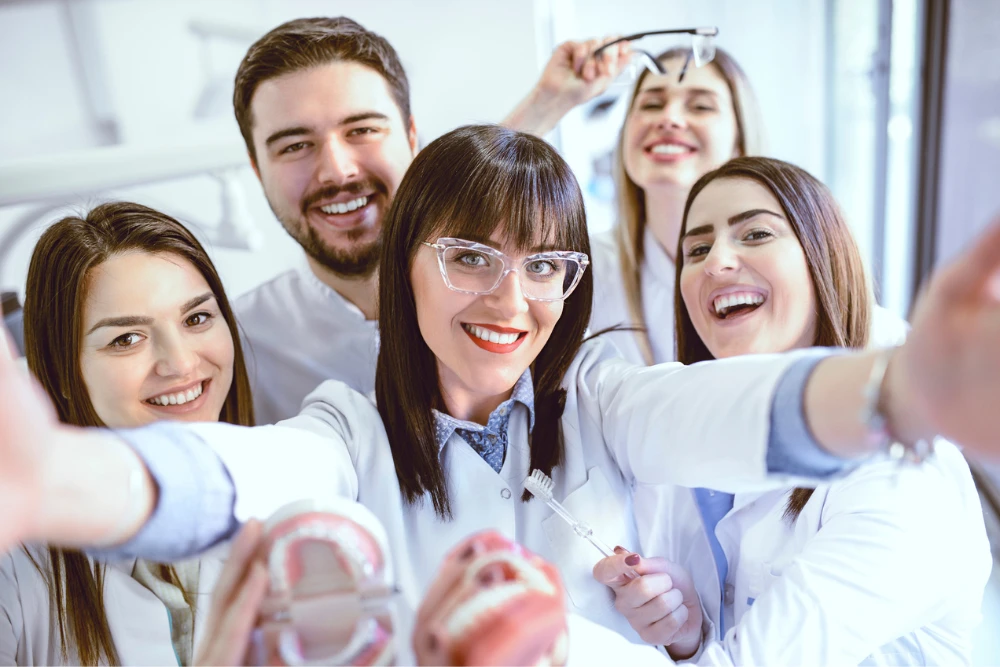
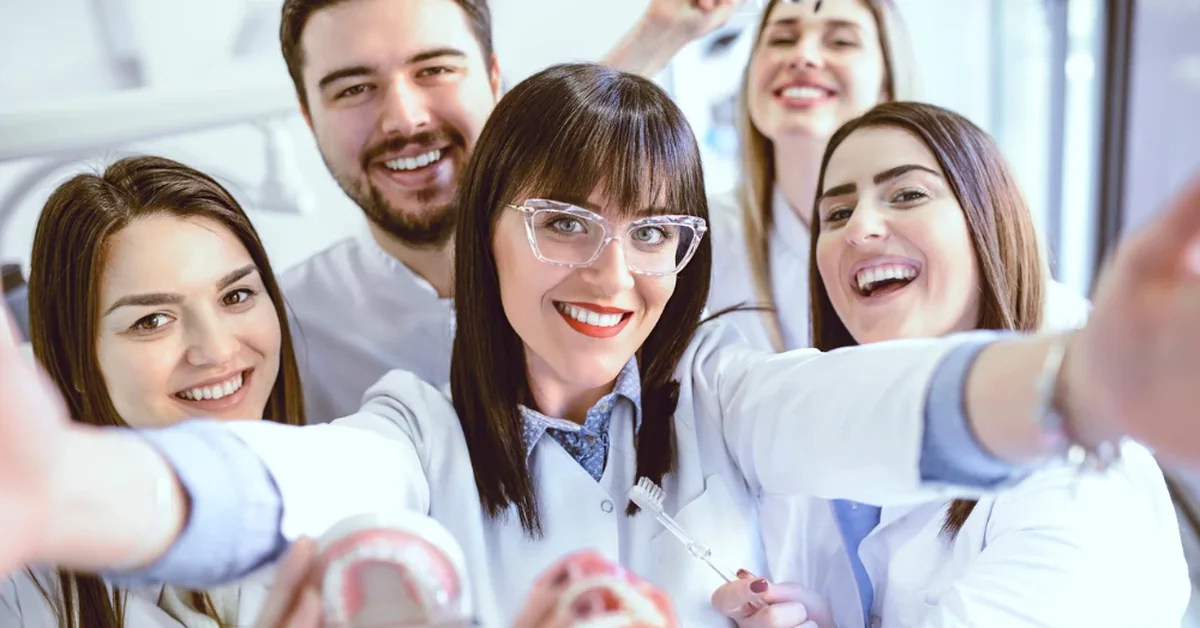
Revert Problems We Solve to tabs, crop 3rd blog image, cache-bust assets
- Revert the Problems We Solve accordion back to the original tabs layout
  (HTML, CSS, JS) on both desktop and mobile
- Crop the marketing blog image to 1200x628 to match the other two cards
- Add ?v=3 cache-buster to site.css/site.js so the hero alignment fix
  (already correct in code) is picked up over any stale cache

https://claude.ai/code/session_01NTQgUDCtFAgaS7qoez3vha

diff --git a/index.html b/index.html
@@ -16,7 +16,7 @@
   <link href="https://fonts.googleapis.com/css2?family=Poppins:wght@400;500;600;700&family=Inter:wght@400;500;600;700&display=swap" rel="stylesheet" />
 
   <link rel="icon" type="image/svg+xml" href="assets/img/favicon.svg" />
-  <link rel="stylesheet" href="assets/css/site.css" />
+  <link rel="stylesheet" href="assets/css/site.css?v=3" />
 </head>
 <body>
   <canvas id="bg-canvas" aria-hidden="true"></canvas>
@@ -116,89 +116,70 @@
           <p class="section-intro section-intro--light reveal">Start with the problem in front of you. We'll bring the right levers to bear, and skip the ones you don't need.</p>
         </div>
 
-        <div class="psolve__accordion reveal" id="psolveAccordion">
-          <div class="psolve__item is-active" data-i="0">
-            <button class="psolve__head" id="ptab-0" aria-expanded="true" aria-controls="ppanel-0">
-              <span class="psolve__tab-num">01</span>
-              <span class="psolve__head-label">Preparing for a sale</span>
-              <span class="psolve__chev" aria-hidden="true"></span>
+        <div class="psolve__layout reveal">
+          <div class="psolve__tabs" role="tablist" aria-label="Problems we solve">
+            <button class="psolve__tab is-active" role="tab" aria-selected="true" id="ptab-0" data-i="0">
+              <span class="psolve__tab-num">01</span> Preparing for a sale
             </button>
-            <div class="psolve__panel" id="ppanel-0" role="region" aria-labelledby="ptab-0">
-              <div class="psolve__panel-inner">
-                <p class="psolve__kicker">The situation</p>
-                <h3 class="psolve__headline">Maximize valuation and walk into diligence with nothing to hide.</h3>
-                <p class="psolve__copy">When you're preparing to sell, clean books and predictable performance are everything. We get the financials, margins, and growth story in shape so buyers compete for your practice.</p>
-                <ul class="psolve__list">
-                  <li>Financial clean-up &amp; revenue-cycle optimization</li>
-                  <li>Cost structure &amp; margin improvement</li>
-                  <li>Growth narrative &amp; diligence-ready documentation</li>
-                </ul>
-                <div class="psolve__outcome"><span class="psolve__outcome-num" data-count="100" data-suffix="%">0</span><span>of prep work aimed at a stronger multiple</span></div>
-              </div>
-            </div>
+            <button class="psolve__tab" role="tab" aria-selected="false" id="ptab-1" data-i="1">
+              <span class="psolve__tab-num">02</span> Growing an existing location
+            </button>
+            <button class="psolve__tab" role="tab" aria-selected="false" id="ptab-2" data-i="2">
+              <span class="psolve__tab-num">03</span> Launching a new location
+            </button>
+            <button class="psolve__tab" role="tab" aria-selected="false" id="ptab-3" data-i="3">
+              <span class="psolve__tab-num">04</span> Implementing best practices
+            </button>
           </div>
 
-          <div class="psolve__item" data-i="1">
-            <button class="psolve__head" id="ptab-1" aria-expanded="false" aria-controls="ppanel-1">
-              <span class="psolve__tab-num">02</span>
-              <span class="psolve__head-label">Growing an existing location</span>
-              <span class="psolve__chev" aria-hidden="true"></span>
-            </button>
-            <div class="psolve__panel" id="ppanel-1" role="region" aria-labelledby="ptab-1">
-              <div class="psolve__panel-inner">
-                <p class="psolve__kicker">The situation</p>
-                <h3 class="psolve__headline">Fill the schedule and lift revenue without adding overhead.</h3>
-                <p class="psolve__copy">You have capacity and a great team, and you need more of the right patients and a tighter path from interest to appointment. We focus on demand, conversion, and retention.</p>
-                <ul class="psolve__list">
-                  <li>Patient acquisition &amp; local marketing</li>
-                  <li>Conversion, scheduling &amp; retention</li>
-                  <li>Revenue-cycle tune-up to keep what you earn</li>
-                </ul>
-                <div class="psolve__outcome"><span class="psolve__outcome-num" data-count="35" data-suffix="%">0</span><span>increase in new patient calls</span></div>
-              </div>
-            </div>
-          </div>
+          <div class="psolve__stage">
+            <article class="psolve__panel is-active" role="tabpanel" aria-labelledby="ptab-0" data-i="0">
+              <p class="psolve__kicker">The situation</p>
+              <h3 class="psolve__headline">Maximize valuation and walk into diligence with nothing to hide.</h3>
+              <p class="psolve__copy">When you're preparing to sell, clean books and predictable performance are everything. We get the financials, margins, and growth story in shape so buyers compete for your practice.</p>
+              <ul class="psolve__list">
+                <li>Financial clean-up &amp; revenue-cycle optimization</li>
+                <li>Cost structure &amp; margin improvement</li>
+                <li>Growth narrative &amp; diligence-ready documentation</li>
+              </ul>
+              <div class="psolve__outcome"><span class="psolve__outcome-num" data-count="100" data-suffix="%">0</span><span>of prep work aimed at a stronger multiple</span></div>
+            </article>
 
-          <div class="psolve__item" data-i="2">
-            <button class="psolve__head" id="ptab-2" aria-expanded="false" aria-controls="ppanel-2">
-              <span class="psolve__tab-num">03</span>
-              <span class="psolve__head-label">Launching a new location</span>
-              <span class="psolve__chev" aria-hidden="true"></span>
-            </button>
-            <div class="psolve__panel" id="ppanel-2" role="region" aria-labelledby="ptab-2">
-              <div class="psolve__panel-inner">
-                <p class="psolve__kicker">The situation</p>
-                <h3 class="psolve__headline">Open strong with a proven playbook instead of guesswork.</h3>
-                <p class="psolve__copy">A new location is a bet. We de-risk it by validating the market, building demand before you open, and standing up operations so day one runs like day one hundred.</p>
-                <ul class="psolve__list">
-                  <li>Market &amp; site demand analysis</li>
-                  <li>Pre-launch marketing &amp; patient pipeline</li>
-                  <li>Operations, staffing &amp; systems setup</li>
-                </ul>
-                <div class="psolve__outcome"><span class="psolve__outcome-num" data-count="2" data-suffix="x" data-decimals="0">0</span><span>faster ramp to profitability</span></div>
-              </div>
-            </div>
-          </div>
+            <article class="psolve__panel" role="tabpanel" aria-labelledby="ptab-1" data-i="1" hidden>
+              <p class="psolve__kicker">The situation</p>
+              <h3 class="psolve__headline">Fill the schedule and lift revenue without adding overhead.</h3>
+              <p class="psolve__copy">You have capacity and a great team, and you need more of the right patients and a tighter path from interest to appointment. We focus on demand, conversion, and retention.</p>
+              <ul class="psolve__list">
+                <li>Patient acquisition &amp; local marketing</li>
+                <li>Conversion, scheduling &amp; retention</li>
+                <li>Revenue-cycle tune-up to keep what you earn</li>
+              </ul>
+              <div class="psolve__outcome"><span class="psolve__outcome-num" data-count="35" data-suffix="%">0</span><span>increase in new patient calls</span></div>
+            </article>
 
-          <div class="psolve__item" data-i="3">
-            <button class="psolve__head" id="ptab-3" aria-expanded="false" aria-controls="ppanel-3">
-              <span class="psolve__tab-num">04</span>
-              <span class="psolve__head-label">Implementing best practices</span>
-              <span class="psolve__chev" aria-hidden="true"></span>
-            </button>
-            <div class="psolve__panel" id="ppanel-3" role="region" aria-labelledby="ptab-3">
-              <div class="psolve__panel-inner">
-                <p class="psolve__kicker">The situation</p>
-                <h3 class="psolve__headline">Adopt what already works instead of starting from scratch.</h3>
-                <p class="psolve__copy">High-performing practices have already solved most of your problems. We bring those playbooks to your team and implement them, so improvement takes weeks, not years.</p>
-                <ul class="psolve__list">
-                  <li>Operational diagnostics &amp; benchmarking</li>
-                  <li>Best-practice playbooks for your specialty</li>
-                  <li>Team enablement &amp; change management</li>
-                </ul>
-                <div class="psolve__outcome"><span class="psolve__outcome-num" data-count="90" data-suffix="%">0</span><span>of best practices ready to implement on day one</span></div>
-              </div>
-            </div>
+            <article class="psolve__panel" role="tabpanel" aria-labelledby="ptab-2" data-i="2" hidden>
+              <p class="psolve__kicker">The situation</p>
+              <h3 class="psolve__headline">Open strong with a proven playbook instead of guesswork.</h3>
+              <p class="psolve__copy">A new location is a bet. We de-risk it by validating the market, building demand before you open, and standing up operations so day one runs like day one hundred.</p>
+              <ul class="psolve__list">
+                <li>Market &amp; site demand analysis</li>
+                <li>Pre-launch marketing &amp; patient pipeline</li>
+                <li>Operations, staffing &amp; systems setup</li>
+              </ul>
+              <div class="psolve__outcome"><span class="psolve__outcome-num" data-count="2" data-suffix="x" data-decimals="0">0</span><span>faster ramp to profitability</span></div>
+            </article>
+
+            <article class="psolve__panel" role="tabpanel" aria-labelledby="ptab-3" data-i="3" hidden>
+              <p class="psolve__kicker">The situation</p>
+              <h3 class="psolve__headline">Adopt what already works instead of starting from scratch.</h3>
+              <p class="psolve__copy">High-performing practices have already solved most of your problems. We bring those playbooks to your team and implement them, so improvement takes weeks, not years.</p>
+              <ul class="psolve__list">
+                <li>Operational diagnostics &amp; benchmarking</li>
+                <li>Best-practice playbooks for your specialty</li>
+                <li>Team enablement &amp; change management</li>
+              </ul>
+              <div class="psolve__outcome"><span class="psolve__outcome-num" data-count="90" data-suffix="%">0</span><span>of best practices ready to implement on day one</span></div>
+            </article>
           </div>
         </div>
       </div>
@@ -411,6 +392,6 @@
     { "imports": { "three": "./assets/js/vendor/three.module.js" } }
   </script>
   <script type="module" src="assets/js/hero-scene.js"></script>
-  <script defer src="assets/js/site.js"></script>
+  <script defer src="assets/js/site.js?v=3"></script>
 </body>
 </html>

diff --git a/assets/css/site.css b/assets/css/site.css
@@ -145,24 +145,24 @@ main, .site-header, .footer { position: relative; z-index: 2; }
    Problems We Solve — tabs
    ========================================================= */
 .psolve { background: var(--navy); color: #fff; padding: clamp(4.5rem, 9vw, 8rem) 0; }
-/* Desktop: heads stack on the left, active panel sits in the right column */
-.psolve__accordion { position: relative; min-height: 560px; }
-.psolve__item { display: block; }
-.psolve__head {
-  display: flex; align-items: center; gap: 1rem; width: 42%; text-align: left; cursor: pointer;
+.psolve__layout { display: grid; grid-template-columns: .85fr 1.15fr; gap: clamp(2rem, 5vw, 4.5rem); align-items: start; }
+.psolve__tabs { display: flex; flex-direction: column; gap: .2rem; }
+.psolve__tab {
+  display: flex; align-items: center; gap: 1rem; text-align: left; cursor: pointer;
   background: none; border: 0; border-top: 1px solid var(--line-light);
   color: rgba(255,255,255,.62); font-family: var(--display); font-size: 1.3rem; font-weight: 500;
   padding: 1.25rem 0; transition: color .3s, padding .3s var(--ease); letter-spacing: -.01em;
 }
-.psolve__item:last-child .psolve__head { border-bottom: 1px solid var(--line-light); }
-.psolve__head-label { flex: 1 1 auto; }
-.psolve__head:hover { color: rgba(255,255,255,.9); }
-.psolve__item.is-active .psolve__head { color: #fff; padding-left: 1rem; box-shadow: inset 3px 0 0 var(--gold); }
-.psolve__tab-num { font-family: var(--sans); font-size: .72rem; font-weight: 600; letter-spacing: .1em; color: rgba(255,255,255,.4); transition: color .3s; flex: 0 0 auto; }
-.psolve__item.is-active .psolve__tab-num { color: var(--gold); }
-.psolve__chev { display: none; }
-.psolve__panel { position: absolute; top: 0; right: 0; width: 54%; display: none; }
-.psolve__item.is-active .psolve__panel { display: block; }
+.psolve__tab:last-child { border-bottom: 1px solid var(--line-light); }
+.psolve__tab-num { font-family: var(--sans); font-size: .72rem; font-weight: 600; letter-spacing: .1em; color: rgba(255,255,255,.4); transition: color .3s; }
+.psolve__tab:hover { color: rgba(255,255,255,.9); }
+.psolve__tab.is-active { color: #fff; padding-left: 1rem; }
+.psolve__tab.is-active .psolve__tab-num { color: var(--gold); }
+.psolve__tab.is-active { box-shadow: inset 3px 0 0 var(--gold); }
+
+.psolve__stage { position: relative; min-height: 360px; }
+.psolve__panel { }
+.psolve__panel[hidden] { display: none; }
 .psolve__kicker { color: var(--gold); font-size: .74rem; font-weight: 600; letter-spacing: .18em; text-transform: uppercase; margin-bottom: 1.1rem; }
 .psolve__headline { font-family: var(--display); font-weight: 500; font-size: clamp(1.5rem, 2.6vw, 2.1rem); line-height: 1.18; letter-spacing: -.01em; margin-bottom: 1.1rem; max-width: 22ch; }
 .psolve__copy { color: rgba(255,255,255,.74); font-size: 1.05rem; max-width: 52ch; margin-bottom: 1.8rem; }
@@ -349,15 +349,7 @@ main, .site-header, .footer { position: relative; z-index: 2; }
   .lever, .lever + .lever { padding: 2rem 1.4rem; border-left: 1px solid var(--line); }
   .lever:nth-child(odd) { border-left: 0; padding-left: 0; }
   .steps { grid-template-columns: repeat(2, 1fr); }
-  /* Mobile: accordion — each situation expands under its own title */
-  .psolve__accordion { position: static; min-height: 0; }
-  .psolve__head { width: 100%; }
-  .psolve__chev { display: block; margin-left: auto; flex: 0 0 auto; width: 10px; height: 10px; border-right: 2px solid currentColor; border-bottom: 2px solid currentColor; transform: rotate(45deg); transition: transform .3s var(--ease); }
-  .psolve__item.is-active .psolve__chev { transform: rotate(225deg); color: var(--gold); }
-  .psolve__panel { position: static; width: auto; display: grid; grid-template-rows: 0fr; overflow: hidden; transition: grid-template-rows .4s var(--ease); }
-  .psolve__item.is-active .psolve__panel { display: grid; grid-template-rows: 1fr; }
-  .psolve__panel-inner { overflow: hidden; }
-  .psolve__item.is-active .psolve__panel-inner { padding: .2rem 0 1.8rem; }
+  .psolve__layout { grid-template-columns: 1fr; gap: 2.5rem; }
   .industries__grid { grid-template-columns: 1fr; }
   .proof__stats { grid-template-columns: repeat(2, 1fr); gap: 2rem; }
   .posts { grid-template-columns: 1fr; }

diff --git a/assets/js/site.js b/assets/js/site.js
@@ -105,32 +105,35 @@
     document.querySelectorAll("[data-count]").forEach(animateCount);
   }
 
-  /* Problems We Solve — tabs (desktop) / accordion (mobile) */
-  const psItems = Array.from(document.querySelectorAll(".psolve__item"));
-  const psCounted = new Set();
-  function selectProblem(i) {
-    psItems.forEach((it, k) => {
+  /* Problems We Solve — tabs */
+  const tabs = Array.from(document.querySelectorAll(".psolve__tab"));
+  const panels = Array.from(document.querySelectorAll(".psolve__panel"));
+  const counted = new Set();
+  function selectTab(i) {
+    tabs.forEach((t, k) => {
       const active = k === i;
-      it.classList.toggle("is-active", active);
-      const head = it.querySelector(".psolve__head");
-      if (head) head.setAttribute("aria-expanded", String(active));
+      t.classList.toggle("is-active", active);
+      t.setAttribute("aria-selected", String(active));
+    });
+    panels.forEach((p, k) => {
+      const active = k === i;
       if (active) {
-        const inner = it.querySelector(".psolve__panel-inner");
-        if (hasGSAP && !reduced && inner) gsap.fromTo(inner, { opacity: 0 }, { opacity: 1, duration: 0.45, ease: "power2.out" });
+        p.hidden = false;
+        if (hasGSAP && !reduced) gsap.fromTo(p, { opacity: 0, y: 14 }, { opacity: 1, y: 0, duration: 0.5, ease: "power2.out" });
         // run the outcome counter the first time this panel opens
-        const num = it.querySelector("[data-count]");
-        if (num && !psCounted.has(num)) { psCounted.add(num); animateCount(num); }
+        const num = p.querySelector("[data-count]");
+        if (num && !counted.has(num)) { counted.add(num); animateCount(num); }
+      } else {
+        p.hidden = true;
       }
     });
   }
-  psItems.forEach((it) => {
-    const head = it.querySelector(".psolve__head");
-    const i = parseInt(it.dataset.i, 10);
-    if (!head) return;
-    head.addEventListener("click", () => selectProblem(i));
-    head.addEventListener("keydown", (e) => {
-      if (e.key === "ArrowDown" || e.key === "ArrowRight") { e.preventDefault(); const n = (i + 1) % psItems.length; psItems[n].querySelector(".psolve__head").focus(); selectProblem(n); }
-      if (e.key === "ArrowUp" || e.key === "ArrowLeft") { e.preventDefault(); const n = (i - 1 + psItems.length) % psItems.length; psItems[n].querySelector(".psolve__head").focus(); selectProblem(n); }
+  tabs.forEach((t) => {
+    t.addEventListener("click", () => selectTab(parseInt(t.dataset.i, 10)));
+    t.addEventListener("keydown", (e) => {
+      const i = parseInt(t.dataset.i, 10);
+      if (e.key === "ArrowDown" || e.key === "ArrowRight") { e.preventDefault(); const n = (i + 1) % tabs.length; tabs[n].focus(); selectTab(n); }
+      if (e.key === "ArrowUp" || e.key === "ArrowLeft") { e.preventDefault(); const n = (i - 1 + tabs.length) % tabs.length; tabs[n].focus(); selectTab(n); }
     });
   });
 

diff --git a/blog/business-services-that-help-practices-thrive.html b/blog/business-services-that-help-practices-thrive.html
@@ -10,7 +10,7 @@
   <link rel="preconnect" href="https://fonts.gstatic.com" crossorigin />
   <link href="https://fonts.googleapis.com/css2?family=Poppins:wght@400;500;600;700&family=Inter:wght@400;500;600;700&display=swap" rel="stylesheet" />
   <link rel="icon" type="image/svg+xml" href="../assets/img/favicon.svg" />
-  <link rel="stylesheet" href="../assets/css/site.css" />
+  <link rel="stylesheet" href="../assets/css/site.css?v=3" />
 </head>
 <body>
   <div class="scroll-progress" id="scrollProgress" aria-hidden="true"></div>
@@ -99,6 +99,6 @@
     </div>
   </footer>
 
-  <script defer src="../assets/js/site.js"></script>
+  <script defer src="../assets/js/site.js?v=3"></script>
 </body>
 </html>

diff --git a/blog/find-the-right-growth-partner.html b/blog/find-the-right-growth-partner.html
@@ -10,7 +10,7 @@
   <link rel="preconnect" href="https://fonts.gstatic.com" crossorigin />
   <link href="https://fonts.googleapis.com/css2?family=Poppins:wght@400;500;600;700&family=Inter:wght@400;500;600;700&display=swap" rel="stylesheet" />
   <link rel="icon" type="image/svg+xml" href="../assets/img/favicon.svg" />
-  <link rel="stylesheet" href="../assets/css/site.css" />
+  <link rel="stylesheet" href="../assets/css/site.css?v=3" />
 </head>
 <body>
   <div class="scroll-progress" id="scrollProgress" aria-hidden="true"></div>
@@ -84,6 +84,6 @@
     </div>
   </footer>
 
-  <script defer src="../assets/js/site.js"></script>
+  <script defer src="../assets/js/site.js?v=3"></script>
 </body>
 </html>

diff --git a/blog/marketing-is-a-system.html b/blog/marketing-is-a-system.html
@@ -10,7 +10,7 @@
   <link rel="preconnect" href="https://fonts.gstatic.com" crossorigin />
   <link href="https://fonts.googleapis.com/css2?family=Poppins:wght@400;500;600;700&family=Inter:wght@400;500;600;700&display=swap" rel="stylesheet" />
   <link rel="icon" type="image/svg+xml" href="../assets/img/favicon.svg" />
-  <link rel="stylesheet" href="../assets/css/site.css" />
+  <link rel="stylesheet" href="../assets/css/site.css?v=3" />
 </head>
 <body>
   <div class="scroll-progress" id="scrollProgress" aria-hidden="true"></div>
@@ -85,6 +85,6 @@
     </div>
   </footer>
 
-  <script defer src="../assets/js/site.js"></script>
+  <script defer src="../assets/js/site.js?v=3"></script>
 </body>
 </html>
